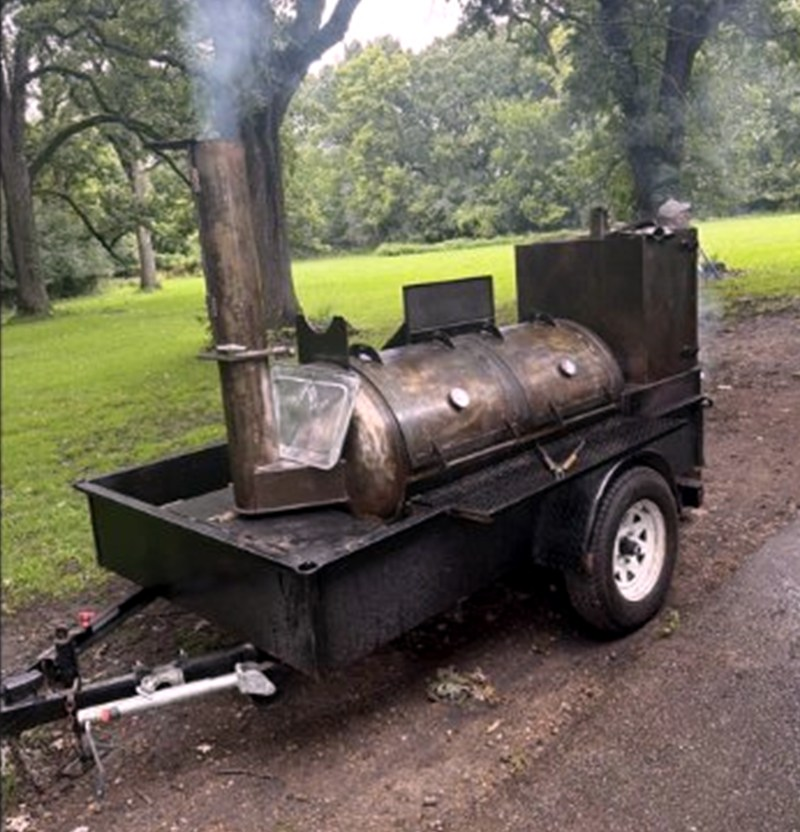
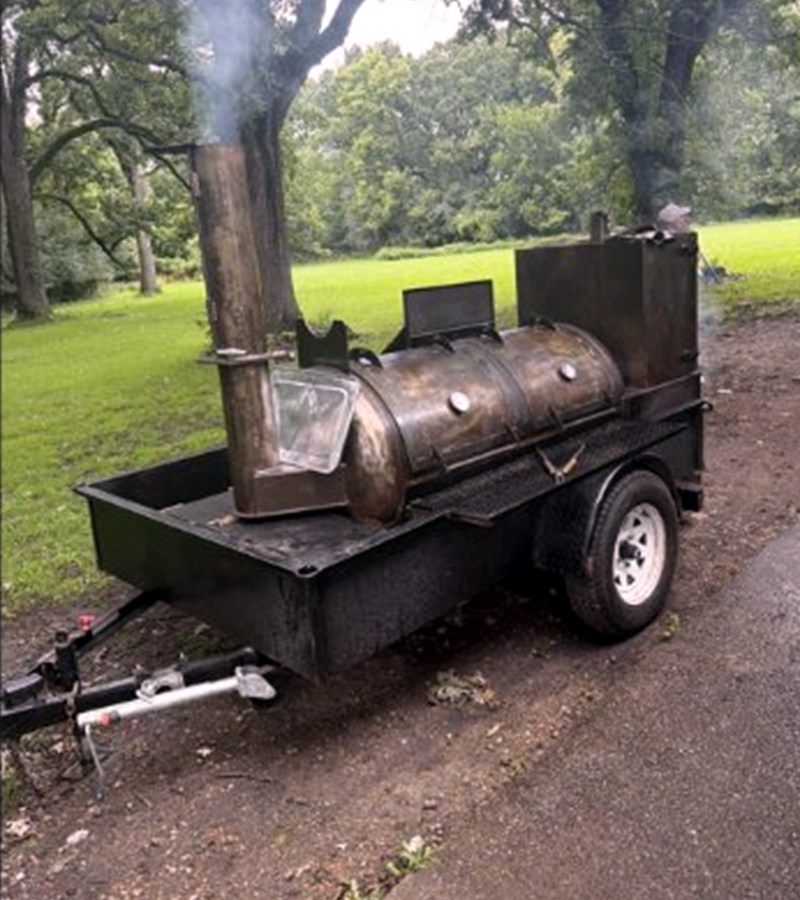
style(about): fit proof strip on single desktop row and balance smoker card height

diff --git a/src/components/home/AboutSection.tsx b/src/components/home/AboutSection.tsx
@@ -56,18 +56,18 @@ export function AboutSection() {
             </blockquote>
 
             {/* Compact Single-Row Proof Strip (Replaces 3 Stacked Mobile Boxes) */}
-            <div className="pt-2 border-y border-stone-300/80 py-3.5 flex flex-wrap items-center gap-x-6 gap-y-2 text-xs sm:text-sm font-bold text-stone-800 uppercase tracking-wider">
-              <span className="inline-flex items-center gap-1.5">
+            <div className="border-y border-stone-300/80 py-3.5 flex flex-wrap items-center gap-x-4 sm:gap-x-5 gap-y-2 text-xs sm:text-[13px] font-bold text-stone-800 uppercase tracking-wider">
+              <span className="inline-flex items-center gap-1.5 whitespace-nowrap">
                 <span className="text-base">🪵</span>
-                <span>100% Cured Oak &amp; Hickory</span>
+                <span>100% Oak &amp; Hickory</span>
               </span>
               <span className="hidden sm:inline text-stone-300">&bull;</span>
-              <span className="inline-flex items-center gap-1.5">
+              <span className="inline-flex items-center gap-1.5 whitespace-nowrap">
                 <span className="text-base">🚚</span>
-                <span>On-Site Mobile Smoker Rig</span>
+                <span>On-Site Smoker Rig</span>
               </span>
               <span className="hidden sm:inline text-stone-300">&bull;</span>
-              <span className="inline-flex items-center gap-1.5">
+              <span className="inline-flex items-center gap-1.5 whitespace-nowrap">
                 <span className="text-base">📍</span>
                 <span>All Chicagoland</span>
               </span>
@@ -105,14 +105,14 @@ export function AboutSection() {
 
               {/* Single Feature Card: Custom Mobile Trailer Smoker Rig */}
               <div className="relative rounded-[24px] overflow-hidden border border-stone-300/90 bg-zinc-950 shadow-2xl shadow-stone-900/25 group">
-                <div className="relative aspect-[4/4.2] sm:aspect-[4/3.8] w-full overflow-hidden bg-zinc-900">
+                <div className="relative aspect-[4/4.5] sm:aspect-[4/4.6] w-full overflow-hidden bg-zinc-900">
                   <Image
                     src="/images/about/marion-mobile-smoker-rig.jpg"
                     alt="Marion Bolden's custom single-axle offset trailer smoker rolling live hardwood smoke on-site at a Chicagoland park venue"
                     fill
                     sizes="(max-width: 768px) 100vw, (max-width: 1200px) 50vw, 480px"
                     priority={false}
-                    className="object-cover object-center scale-[1.01] group-hover:scale-105 transition-transform duration-700 ease-out"
+                    className="object-cover object-top scale-[1.01] group-hover:scale-105 transition-transform duration-700 ease-out"
                   />
                   
                   {/* Subtle Cinematic Vignette */}
